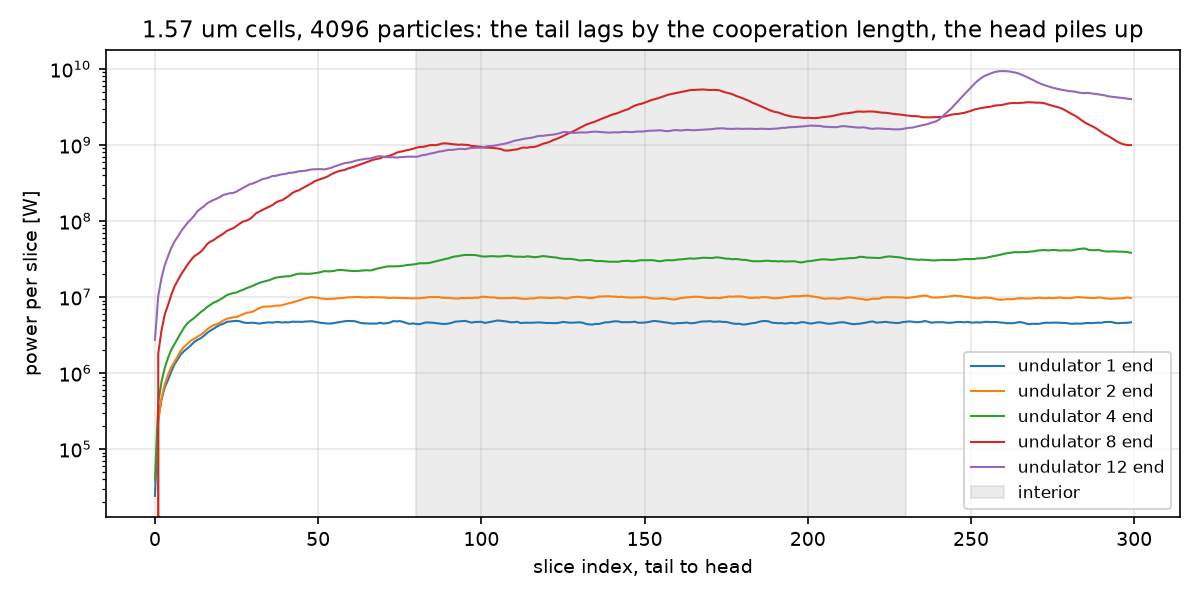
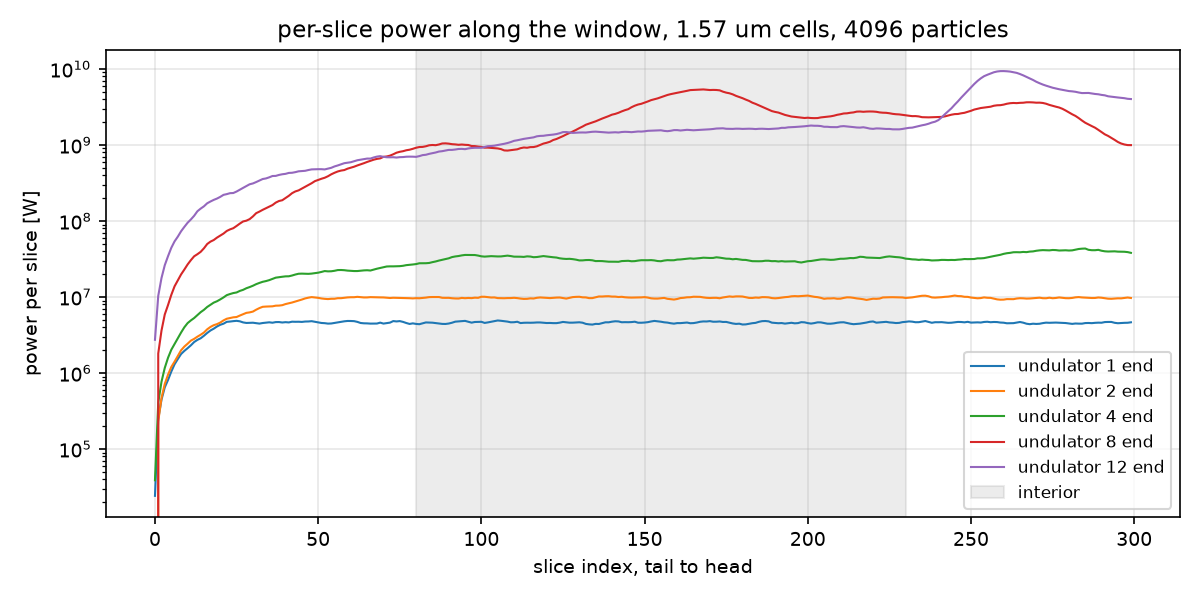
lucifer: startup-noise page rewritten in a plain register
The page defines its terms where it uses them and drops the shorthand the
first version leaned on. A run with the field started at zero is an unseeded
run, an input file is an input file, the power outside the mode is the
wide-angle emission, and the particle count is named as such. The section
titles name their subjects: the model, the method, emission outside and inside
the mode, short and long bunches, the comparison with Genesis4, the
recommendations and the possible remedies. The introduction no longer assumes
the reader knows the migration example, and the reproduction paragraph states
what the script did rather than announcing where the numbers come from. The
two figure files whose names carried the shorthand are renamed, and the window
profile figure's title is a description of its axes. The changelog entry, the
three example README sentences and the index row use the same vocabulary. No
number moved.

The eleven tier digits are byte-identical on both builds, the regression
suite reports 52 passed and 3 skipped, the wavefront validation passes and
every example exit line is identical.

Changed region(s): [[0.1233, 0.03, 0.9558, 0.09]]

diff --git a/lucifer/tests/scripts/startup_noise.py b/lucifer/tests/scripts/startup_noise.py
@@ -536,7 +536,7 @@ def figures(results, out):
     for a in ax[1]:
         a.set_xlabel("z [m]")
     fig.tight_layout()
-    fig.savefig(out / "floor-and-gain.png", dpi=150)
+    fig.savefig(out / "power-outside-and-inside-the-mode.png", dpi=150)
     plt.close(fig)
 
     # 2. The floor against the cell size, the gain against the load, at the first dump.
@@ -560,7 +560,7 @@ def figures(results, out):
     ax[1].set_ylabel("power at z = 18.2 m [W]")
     ax[1].legend(fontsize=8)
     fig.tight_layout()
-    fig.savefig(out / "floor-vs-cell-gain-vs-load.png", dpi=150)
+    fig.savefig(out / "wide-angle-vs-cell-size-and-particle-count.png", dpi=150)
     plt.close(fig)
 
     # 3. Beamlets against particles.
@@ -606,7 +606,7 @@ def figures(results, out):
     fig.savefig(out / "line-and-doubled.png", dpi=150)
     plt.close(fig)
 
-    # 5. The window profile: per-slice power against the slice index at four undulator ends.
+    # 5. The window profile: per-slice power against the slice index at five undulator ends.
     r = fl["floor_g256_n4096"]
     fig, ax = plt.subplots(figsize=(8, 4))
     for k, prof in r["profile"].items():
@@ -614,7 +614,7 @@ def figures(results, out):
     ax.axvspan(INTERIOR.start, INTERIOR.stop, color="gray", alpha=0.15, label="interior")
     ax.set_xlabel("slice index, tail to head")
     ax.set_ylabel("power per slice [W]")
-    ax.set_title("1.57 um cells, 4096 particles: the tail lags by the cooperation length, the head piles up")
+    ax.set_title("per-slice power along the window, 1.57 um cells, 4096 particles")
     ax.legend(fontsize=8)
     fig.tight_layout()
     fig.savefig(out / "window-profile.png", dpi=150)

diff --git a/lucifer/doc/startup-noise.md b/lucifer/doc/startup-noise.md
@@ -1,11 +1,11 @@
 ---
-title: "SASE startup against the grid and the load"
-short_title: Startup noise
+title: "Grid and particle-count dependence of SASE power"
+short_title: SASE convergence
 ---
 
-A run started dark reports a field power that depends on the transverse cell size and on the number of macroparticles per slice. On the migration example deck the exit power runs from 0.25 GW at 6.25 um cells to 37 GW at 0.78 um at 1024 particles per slice, and four times the particles cuts it by about six at either grid. Genesis4 does the same on the same decks, and Lucifer started from Genesis4's own dumps lands on it at 2e-6 at every grid, so the dependence belongs to the method the two codes share. This page measures where the power comes from, what converges and what does not, and how to choose the grid and the particle count for a SASE run.
+Self-amplified spontaneous emission (SASE) is simulated by starting the radiation field at zero and letting the shot noise of the electron beam seed the instability. This page calls such a run unseeded. The field power an unseeded run reports depends on the transverse cell size of the field grid and on the number of macroparticles per slice. On the input of the example in `examples/migration`, the exit power is 0.25 GW with 6.25 um cells and 37 GW with 0.78 um cells at 1024 macroparticles per slice, and four times the particles reduces it by about a factor of six at either cell size. Genesis4 shows the same dependence on the same inputs, and Lucifer started from Genesis4's own particle and field dumps reproduces it to 2e-6 at every grid, so the dependence belongs to the method the two codes share. This page identifies the source of the power, states what converges and what does not, and gives the grid, window and particle count a SASE run needs.
 
-Every number here is produced by `lucifer/tests/scripts/startup_noise.py`, which also draws the figures and writes `doc/generated/startup-noise/startup-noise.json`. It runs on demand and never in the benchmark harness:
+The analysis was carried out with `lucifer/tests/scripts/startup_noise.py`, which runs the simulations, draws the figures and writes every number quoted here to `doc/generated/startup-noise/startup-noise.json`. The script runs on demand and is not part of the benchmark harness:
 
 ```
 python3 lucifer/tests/scripts/startup_noise.py --exe production/bin/lucifer --genesis <genesis4> \
@@ -13,29 +13,29 @@ python3 lucifer/tests/scripts/startup_noise.py --exe production/bin/lucifer --ge
         --workdir <dir> --out lucifer/doc/generated/startup-noise
 ```
 
-## What the codes model
+## The model
 
-The quiet start loads each beamlet's bunching at the physical shot-noise level, harmonic by harmonic ([](fel-physics.md#sec-noise)). Every beamlet is one transverse point on the deposit grid. The paraxial field solver carries every transverse wavenumber up to the grid's Nyquist, and the source has no angular dependence, so a point beamlet radiates its noise at the resonant wavelength into every angle the grid holds. A real undulator emits at the resonant wavelength only inside the central cone, $\theta_{con} = \sqrt{1+K^2}/(\gamma\sqrt{N_w})$, 7 urad for one segment of this line, and emission at larger angles is red-shifted out of the FEL bandwidth. Neither code applies that cutoff. Spontaneous emission enters the field in no other way: `radiation_fluctuations` acts on the beam's energy and never on the field.
+The particle loader imposes shot noise on each beamlet's bunching at the physical level, harmonic by harmonic, following Fawley's algorithm ([](fel-physics.md#sec-noise)). Each beamlet occupies a single transverse point on the deposition grid. The paraxial field solver carries every transverse wavenumber up to the Nyquist wavenumber of the grid, and the source term has no angular dependence, so a point beamlet radiates its noise at the resonant wavelength into every angle the grid can represent. A real undulator emits at the resonant wavelength only within the central cone of half angle $\theta_{con} = \sqrt{1+K^2}/(\gamma\sqrt{N_w})$, which is 7 urad for one segment of the line studied here. Emission at larger angles is red-shifted out of the FEL bandwidth. Neither code applies that cutoff. Spontaneous emission enters the field in no other way. The switch `radiation_fluctuations` acts on the particle energies and never on the field.
 
-Once the beam bunches, each beamlet radiates coherently with its own bunching, into the same wide angles. A real beam of $N$ electrons in $N_b$ beamlets radiates coherently only inside the mode, and the wide-angle part of a bunched macroparticle beam scales as the beamlet charge squared times the beamlet count, which is $1/N_b$ of the coherent power. That part is an artifact of the load. The theory of SASE startup is reviewed in [](references.md): Ming Xie's fit for the gain length, and Saldin, Schneidmiller and Yurkov's effective shot-noise power and saturation estimates.
+Once the beam is bunched, each beamlet radiates coherently with its own bunching factor, again into every angle the grid can represent. A real beam of $N$ electrons radiates coherently only within the mode of the FEL. The wide-angle emission of a bunched beam of $N_b$ beamlets scales as the square of the beamlet charge times the beamlet count, which is $1/N_b$ of the coherent power. This part of the power is an artifact of the macroparticle representation. The theory used for comparison is Ming Xie's fitting formula for the gain length and the effective shot-noise power and saturation estimates of Saldin, Schneidmiller and Yurkov ([](references.md)).
 
-## The measurement
+## Method
 
-The deck is the examples' Aramis line, 3 kA, 5.8 GeV, 1 A, with a window of 300 slices at a spacing of twelve wavelengths, longer than the 320 nm the whole line slips, so the interior of the window is a long bunch. The tail sixty slices lag by the cooperation length and the head thirty collect the field that slips forward, so every power on this page is the mean over the interior slices 80 to 230, per slice.
+The lattice is the Aramis line of the examples, with a peak current of 3 kA, an energy of 5.8 GeV and a radiation wavelength of 1 A. The time window holds 300 slices at a spacing of twelve wavelengths. It is longer than the 320 nm of slippage accumulated over the line, so the interior of the window behaves as a long bunch. The sixty slices nearest the tail lag by the cooperation length, and the thirty slices nearest the head collect the field that slips forward out of the interior. Every power quoted on this page is therefore the mean over slices 80 to 230 of the per-slice power.
 
 ![the per-slice power against the slice index at five undulator ends](generated/startup-noise/window-profile.png)
 
-The field is dumped at the ends of undulators 1, 2, 4, 8 and 12, at z of 4.0, 8.7, 18.2, 37.2 and 56.2 m. Each dump's far field is its FFT, and the power inside an angular radius of 3 urad is separated from the power outside it. The mode's diffraction angle $\lambda/(2\pi\sigma_x)$ is 0.74 urad, so the cut holds the mode with margin, and the split at saturation is the same for cuts of 2 and 5 urad. Early in the line the far field is flat in angle, so a cut of radius $\theta$ takes a share of the floor in proportion to $\theta^2$, and the coherent part is identifiable once it rises above that share, from about z = 10 m.
+The field is written to file at the ends of undulators 1, 2, 4, 8 and 12, at z of 4.0, 8.7, 18.2, 37.2 and 56.2 m. The far field of each record is its two-dimensional Fourier transform, and the power within an angular radius of 3 urad is separated from the power outside it. The diffraction angle of the mode, $\lambda/(2\pi\sigma_x)$, is 0.74 urad, so the cut contains the mode with margin. At saturation the split is the same for cuts of 2 and 5 urad. Early in the line the far field is flat in angle, so a cut of radius $\theta$ contains a share of the wide-angle emission proportional to $\theta^2$, and the coherent part becomes identifiable once it rises above that share, from about z = 10 m.
 
-The runs are on the device at cells of 6.35, 3.15, 1.57 and 0.78 um (grids 64 to 512 over a half width of 2e-4 m) and at 1024, 4096, 16384 and 65536 particles per slice. One CPU run at 6.35 um and 1024 particles differs from the device run by 1.5e-3 on the interior power and 1.9e-3 on the power inside the cut, the device's usual band ([](validation.md#val-device)).
+The runs use the Metal backend at cell sizes of 6.35, 3.15, 1.57 and 0.78 um, which are grids of 64, 128, 256 and 512 points over a half width of 2e-4 m, and at 1024, 4096, 16384 and 65536 macroparticles per slice. One CPU run at 6.35 um and 1024 particles differs from the corresponding device run by 1.5e-3 in the interior power and by 1.9e-3 in the power within the cut, which is the device's usual level ([](validation.md#val-device)).
 
-The theory for this deck, from the script: $\rho$ = 5.1e-4, $\sigma_x$ = 21 um, the 1D gain length 1.34 m, Ming Xie's 3D power gain length 1.79 m of undulator, the effective shot-noise power 1.9 kW per slice, $N_c$ = 1.5e6 electrons per coherence volume, a saturation length of 30.5 m and a saturated power of 0.5 GW by Saldin, Schneidmiller and Yurkov, and 8.1 GW by Ming Xie's estimate. The seeded steady-state example on the same line grows with an e-folding of 2.25 m along the line, which is 1.9 m of undulator once the drifts are counted, 6 percent from the fit.
+The script computes the following quantities for this configuration. The Pierce parameter is $\rho$ = 5.1e-4 and the rms beam size $\sigma_x$ = 21 um. The one-dimensional gain length is 1.34 m and Ming Xie's three-dimensional power gain length is 1.79 m of undulator. The effective shot-noise power is 1.9 kW per slice, the number of electrons per coherence volume $N_c$ = 1.5e6, the saturation length 30.5 m, and the saturated power 0.5 GW by the estimate of Saldin, Schneidmiller and Yurkov and 8.1 GW by Ming Xie's. The seeded steady-state example on the same line has a power e-folding length of 2.25 m along the line, which is 1.9 m of undulator once the drift spaces are excluded, within 6 percent of the fit.
 
-## The floor
+## Emission outside the mode
 
-![power outside and inside 3 urad against z, for four cell sizes and four loads](generated/startup-noise/floor-and-gain.png)
+![power outside and inside 3 urad against z, for four cell sizes and four particle counts](generated/startup-noise/power-outside-and-inside-the-mode.png)
 
-The power outside the cut at the end of the first segment does not move with the load and grows as the cells shrink, between $1/dx$ and $1/dx^2$:
+At the end of the first segment the power outside the cut is independent of the particle count and increases as the cells shrink, between $1/dx$ and $1/dx^2$:
 
 | cell size | 1024 particles | 4096 | 16384 | 65536 |
 |---|---|---|---|---|
@@ -44,55 +44,57 @@ The power outside the cut at the end of the first segment does not move with the
 | 1.57 um | 4.7e6 | 4.5e6 | 4.3e6 | 3.5e6 |
 | 0.78 um | 9.9e6 | 9.2e6 | 8.7e6 | 7.1e6 |
 
-The power inside the cut at the same point is 0.9e5 to 1.3e5 W per slice for every grid and every load. The physical spontaneous power of the beam in the central cone of one segment, Saldin, Schneidmiller and Yurkov's eq. (1), is 0.71 MW, and the share of it inside 3 urad is 1.3e5 W. The loaded noise radiates the right power where the real beam radiates. What it adds is the emission outside the cone.
+At the same point the power within the cut is 0.9e5 to 1.3e5 W per slice for every grid and every particle count. The spontaneous power of the beam within the central cone of one segment, eq. (1) of Saldin, Schneidmiller and Yurkov, is 0.71 MW, of which the share within 3 urad is 1.3e5 W. The loaded noise therefore radiates the physical power at the angles where a real beam radiates. What the model adds is the emission outside the cone.
 
-![the floor against the cell size at z = 3.99 m, and the inside and outside power against the load at z = 18.2 m](generated/startup-noise/floor-vs-cell-gain-vs-load.png)
+![the wide-angle power against the cell size at z = 3.99 m, and the inside and outside power against the particle count at z = 18.2 m](generated/startup-noise/wide-angle-vs-cell-size-and-particle-count.png)
 
-Past the first segments the outside power grows with the bunching, and now it depends on the load. At 1.57 um and z = 56 m it is 4.2e9, 9.6e8, 2.6e8 and 9.6e7 W per slice for 128, 512, 2048 and 8192 beamlets. The beamlet experiment separates the two counts:
+Beyond the first segments the power outside the cut grows with the bunching, and it then depends on the particle count. At 1.57 um and z = 56 m it is 4.2e9, 9.6e8, 2.6e8 and 9.6e7 W per slice for 128, 512, 2048 and 8192 beamlets. Varying the beamlet size at a fixed particle count, and the particle count at a fixed beamlet count, separates the two:
 
-![inside and outside power against z with the beamlet size varied at fixed particles, and the particle count varied at fixed beamlets](generated/startup-noise/beamlets-vs-particles.png)
+![inside and outside power against z with the beamlet size varied at fixed particle count, and the particle count varied at fixed beamlet count](generated/startup-noise/beamlets-vs-particles.png)
 
-| run | beamlets | outside 3 urad at z = 37 m | at z = 56 m |
+| particles per slice, beamlet size | beamlets | outside 3 urad at z = 37 m | at z = 56 m |
 |---|---|---|---|
-| 4096 particles, beamlet size 4 | 1024 | 2.0e8 W | 5.2e8 |
-| 4096 particles, beamlet size 8 | 512 | 4.1e8 | 9.6e8 |
-| 4096 particles, beamlet size 16 | 256 | 1.0e9 | 1.9e9 |
-| 2048 particles, beamlet size 4 | 512 | 4.2e8 | 1.1e9 |
-| 8192 particles, beamlet size 16 | 512 | 4.5e8 | 8.9e8 |
+| 4096, 4 | 1024 | 2.0e8 W | 5.2e8 |
+| 4096, 8 | 512 | 4.1e8 | 9.6e8 |
+| 4096, 16 | 256 | 1.0e9 | 1.9e9 |
+| 2048, 4 | 512 | 4.2e8 | 1.1e9 |
+| 8192, 16 | 512 | 4.5e8 | 8.9e8 |
 
-The outside power is set by the beamlet count alone, inversely, and the particle count at a fixed beamlet count does not enter. That is the coherent emission of each beamlet with itself.
+The power outside the cut is inversely proportional to the beamlet count and independent of the particle count at a fixed beamlet count. This is the coherent emission of each beamlet with itself.
 
-## The gain
+## Emission inside the mode
 
-The power inside the cut is the same curve for every grid and every load, within the SASE fluctuation of the interior mean, which is about 25 percent for the 150 slices and the 10-slice coherence length here. At z = 37.2 m it is 1.8e9 to 3.9e9 W per slice in fifteen of the sixteen runs, and the saturation point of the doubled line falls at 28 to 33 m for every run, beside the 30.5 m estimate. The saturated power sits between the two estimates, 0.5 and 8.1 GW. The interior bunching at 37 m is 0.20 to 0.30 in the same fifteen runs.
+The power within the cut follows the same curve for every grid and every particle count, within the statistical fluctuation of the interior mean, which is about 25 percent for 150 slices and a coherence length of about 10 slices. At z = 37.2 m it is 1.8e9 to 3.9e9 W per slice in fifteen of the sixteen runs. The saturation point of the doubled line falls between 28 and 33 m for every run, against the estimate of 30.5 m. The saturated power lies between the two estimates of 0.5 and 8.1 GW. The interior bunching factor at 37 m is 0.20 to 0.30 in the same fifteen runs.
 
-Two departures are measured. In the exponential regime the inside power rises with fewer beamlets, 3.5e6, 5.3e6 and 9.8e6 W at z = 18.2 m for 1024, 512 and 256 beamlets at 4096 particles, and 1.1e7 against 6.9e6 W at 1.57 um for 128 against 8192 beamlets. The beamlet's own field acts back on it, and the effect is a factor of about two in the exponential regime at the examples' load. The sixteenth run, 0.78 um cells with 1024 particles, is the one where the wide-angle emission reaches 6.8e9 W per slice at 37 m, above the coherent saturation. It drains the beam: the bunching there is 0.08 and the inside power 4.9e8 W, a fifth of the others.
+Two departures from convergence are measured. In the exponential regime the power within the cut rises as the beamlet count falls: 3.5e6, 5.3e6 and 9.8e6 W at z = 18.2 m for 1024, 512 and 256 beamlets at 4096 particles, and 1.1e7 against 6.9e6 W at 1.57 um for 128 against 8192 beamlets. The field of a beamlet acts back on the beamlet itself, and the effect is a factor of about two in the exponential regime at the particle count the examples use. The sixteenth run, with 0.78 um cells and 1024 particles, is the one in which the wide-angle emission reaches 6.8e9 W per slice at 37 m, above the coherent saturated power. That emission is drawn from the beam: the bunching factor there is 0.08 and the power within the cut 4.9e8 W, a fifth of the other runs.
 
-## The line and the line twice
+## Short and long bunches
 
 ![the examples' window through the line, and the long window through the line twice](generated/startup-noise/line-and-doubled.png)
 
-The examples run a window of 96 slices at three wavelengths, a 29 nm bunch, against a cooperation length $\lambda/(4\pi\rho)$ of 16 nm and 320 nm of slippage over the line. The field leaves such a bunch within a segment and a half, so its window power is the emission of the bunched beam into the field that passes, and most of that emission is the wide-angle part. The window power at the exit:
+The SASE examples use a window of 96 slices at a spacing of three wavelengths, a bunch 29 nm long. The cooperation length $\lambda/(4\pi\rho)$ is 16 nm, and the slippage over the line is 320 nm. The field leaves such a bunch within a segment and a half, so the window power is the emission of the bunched beam into the field passing through it, and most of that emission is the wide-angle part. The window power at the exit of the line is:
 
 | window of 96 slices | 1024 particles | 65536 particles |
 |---|---|---|
 | 3.15 um cells | 1.18 GW | 0.047 GW |
 | 1.57 um cells | 7.3 GW | 0.17 GW |
 
-The two 65536 runs still differ by 3.6, the floor's own ratio between the two cell sizes, so the window power of this bunch is the wide-angle emission at every load measured. The examples' recorded powers, 3.0 GW for `examples/sase` at 255 points and 2048 particles and 3.13 GW for `examples/migration` at 151 points and 1024, are numbers of this kind. Their ratios, migration on against off, and wake on against off, are measured at one grid and one load and stand as ratios.
+The two runs with 65536 particles still differ by a factor of 3.6, which is the ratio of the wide-angle emission between the two cell sizes. The window power of this bunch is therefore the wide-angle emission at every particle count measured. The powers recorded in the example descriptions, 3.0 GW for `examples/sase` at 255 grid points and 2048 particles and 3.13 GW for `examples/migration` at 151 points and 1024 particles, are of this kind. The ratios those examples measure, migration enabled against disabled and wake enabled against disabled, are taken at one grid and one particle count and remain valid as ratios.
 
-The long window through the line twice, 600 slices, gives the long-bunch answer. At 65536 particles the interior power at 3.15 and 1.57 um agrees: a peak of 2.24e9 and 2.28e9 W per slice at z = 37 m, and 2.4e8 and 3.1e8 W at 114 m as the saturated field decoheres. At 1024 particles the same runs saturate at the same z but hold 1.3e9 and 2.8e9 W at 114 m, which is the wide-angle emission piling up. Saturation forgives the startup and the saturation point, and it does not forgive the load in what the power diagnostic reports afterwards.
+A window of 600 slices through a line of twice the length gives the long-bunch result. With 65536 particles the interior power at 3.15 and 1.57 um agrees: a peak of 2.24e9 and 2.28e9 W per slice at z = 37 m, falling to 2.4e8 and 3.1e8 W at 114 m as the saturated field loses coherence. With 1024 particles the same runs saturate at the same position but hold 1.3e9 and 2.8e9 W at 114 m, which is the accumulated wide-angle emission. Saturation is insensitive to the startup level and to the saturation position. It does not remove the particle-count dependence of the total power reported after saturation.
 
-## Genesis4
+## Comparison with Genesis4
 
-On the harness's SASE tier deck, a 32-slice window of 9.6 nm at 2048 particles, Genesis4 4.6.15 with its FFT solver reports an exit window power of 2.26e7, 1.17e8 and 8.16e8 W at 151, 255 and 511 points, and with its ADI solver 2.26e7, 1.20e8 and 5.48e8 W. Lucifer started from Genesis4's dumps at each grid lands on its exit power at 1.9e-6, 1.9e-6 and 1.9e-6, with a worst record of 2.1e-6, the `tdsase` tier's level. The two codes discretize the transverse plane and the load identically, so the tiers cannot see the dependence, and that deck's bunch is 0.6 cooperation lengths long.
+On the SASE input of the benchmark harness, a window of 32 slices spanning 9.6 nm with 2048 particles, Genesis4 4.6.15 reports an exit window power of 2.26e7, 1.17e8 and 8.16e8 W at 151, 255 and 511 grid points with its FFT solver, and 2.26e7, 1.20e8 and 5.48e8 W with its alternating-direction implicit solver. Lucifer started from Genesis4's dumps at each grid agrees with its exit power to 1.9e-6 at all three, with a worst relative difference over all records of 2.1e-6, which is the level of the `tdsase` tier. The two codes discretize the transverse plane and the particle distribution identically, so the comparison tiers cannot detect this dependence. That bunch is 0.6 cooperation lengths long.
 
-## Choosing the grid and the load
+## Recommendations
 
-- Judge a dark start by the power inside the mode, or by the bunching, and never by the total field power alone. A field dump's far field splits the two, as the script does. A cheaper test is to double the particle count: a power that halves is wide-angle emission.
-- For a long-bunch SASE result the window must be several cooperation lengths long, 16 nm here, and the slices within a few cooperation lengths of the tail are not representative. A window shorter than that is a short-bunch problem, and its power is dominated by the wide-angle emission at any load this page measured.
-- Cells near 3 um resolve a 21 um beam. Finer cells raise the floor and buy nothing in the coherent power.
-- The wide-angle emission at saturation scales as the bunching squared over the beamlet count, and between $1/dx$ and $1/dx^2$. On this line it falls under the coherent saturated power at 2048 beamlets for 1.57 um cells and at 512 beamlets for 3.15 um, which is 16384 and 4096 particles at a beamlet size of 8.
-- The `check_sase_startup` check and the `tdsase` tier compare the two codes at one grid and one load. They hold the loading level and the transcription, and they say nothing about convergence in either.
+- Judge an unseeded run by the power within the mode or by the bunching factor, and not by the total field power alone. The far field of a field dump separates the two, as the script does. A simpler test is to double the particle count: a power that halves is wide-angle emission.
+- A long-bunch SASE result requires a window several cooperation lengths long, 16 nm for this configuration, and the slices within a few cooperation lengths of the tail are not representative. A shorter window is a short-bunch problem, and its total power was dominated by wide-angle emission at every particle count measured here.
+- Cells of about 3 um resolve a 21 um beam. Finer cells increase the wide-angle emission without changing the coherent power.
+- The wide-angle emission at saturation scales as the square of the bunching factor divided by the beamlet count, and between $1/dx$ and $1/dx^2$ in the cell size. On this line it falls below the coherent saturated power at 2048 beamlets for 1.57 um cells and at 512 beamlets for 3.15 um cells, which is 16384 and 4096 particles per slice at a beamlet size of 8.
+- The `check_sase_startup` check and the `tdsase` tier compare the two codes at one grid and one particle count. They verify the noise level and the transcription, and they say nothing about convergence in either quantity.
 
-The two ways to remove the artifact are measurements not yet made: a transverse deposit kernel wider than a cell, which would suppress the wavenumbers a point beamlet radiates into, and an angular filter on the source at the central cone. Either departs from Genesis4 on measurement.
+## Possible remedies
+
+Two changes would remove the artifact and have not been measured: a transverse deposition kernel wider than one cell, which would suppress the wavenumbers a point beamlet radiates into, and an angular filter on the source term at the central cone. Either would be a departure from Genesis4 and would need its own measurement.

diff --git a/lucifer/doc/changelog.md b/lucifer/doc/changelog.md
@@ -9,24 +9,24 @@ Development history of the FEL tracker on the `lucifer-dev` branch, newest first
 This is the branch's own record. Bmad's `changelog.md` carries what a merge changes,
 and it is written at the merge.
 
-- 2026-09-05 Added: doc/startup-noise.md, the SASE startup measured against the transverse cell
-  size and the macroparticle load, with tests/scripts/startup_noise.py producing every number and
-  figure on demand. A dark start's field power has two parts. The power inside the mode, taken from
+- 2026-09-05 Added: doc/startup-noise.md, the dependence of SASE power on the transverse cell
+  size and the macroparticle count, with tests/scripts/startup_noise.py producing every number and
+  figure on demand. The field power of an unseeded run has two parts. The power inside the mode, taken from
   the far field of dumps at five undulator ends inside 3 urad, is the same for cells of 6.35 to
   0.78 um and loads of 1024 to 65536 particles per slice within the SASE fluctuation, 1.8e9 to
   3.9e9 W per interior slice at z = 37 m, saturating at 28 to 33 m beside Saldin, Schneidmiller and
   Yurkov's 30.5 m, and at the end of the first segment it equals the beam's physical spontaneous
   power inside that cone, 1.3e5 W per slice. The power outside the mode is the point beamlets'
-  own emission: load-independent at first and between 1/dx and 1/dx^2 in the cell size, then
+  own emission: independent of the particle count at first and between 1/dx and 1/dx^2 in the cell size, then
   growing with the bunching as one over the beamlet count and independent of the particle count
   at a fixed beamlet count. At 1.57 um cells and 1024 particles it is 4.2e9 W per slice at the
   exit against 8e8 W inside the mode. The examples' 96-slice window is 1.9 cooperation lengths
-  long and its power is that emission at every load measured, 7.3 GW at 1024 particles and
+  long and its power is that emission at every particle count measured, 7.3 GW at 1024 particles and
   0.17 GW at 65536 at 1.57 um, so the SASE examples' recorded powers are numbers of that kind
-  and their ratios stand. Genesis4 4.6.15 on the SASE tier deck reports 2.26e7, 1.17e8 and
+  and their ratios stand. Genesis4 4.6.15 on the SASE tier input reports 2.26e7, 1.17e8 and
   8.16e8 W at 151, 255 and 511 points, and Lucifer from its dumps lands on it at 1.9e-6 at each.
   The page states what the codes model, what converged, and how to choose the grid, the window
-  and the load. The index gains a row, validation.md's SASE tier paragraph a sentence, and the
+  and the particle count. The index gains a row, validation.md's SASE tier paragraph a sentence, and the
   sase, migration and sase_wake examples one sentence each. No setting or recorded number moved.
 
 - 2026-09-04 Added: slice migration runs with the device. The pass is fel_migrate_slices

diff --git a/lucifer/examples/sase_wake/README.md b/lucifer/examples/sase_wake/README.md
@@ -22,9 +22,9 @@ least because the wake is causal and the head has little charge ahead of it. The
 energy drops 8.29 m_e c^2, about 4.24 MeV, over the 57 m line, and the per-slice drop
 runs from 0.25 to 13.56 m_e c^2 across the window. That is clearly visible in the
 energy panel against the 1 m_e c^2 initial spread. The SASE still reaches 2.94 GW,
-against 3.02 GW for the same run with no wake. Both powers are at this deck's grid and
-particle count, and a dark start's power depends on both
-([startup noise](../../doc/startup-noise.md)).
+against 3.02 GW for the same run with no wake. Both powers are those of this input's grid
+and particle count. The power of an unseeded run depends on both
+([SASE convergence](../../doc/startup-noise.md)).
 
 The same resistive-wall kernel applied through Bmad's own wake machinery instead of
 the transcribed model is `../bmad_wake`, which carries both runs and their agreement.

diff --git a/lucifer/examples/sase/README.md b/lucifer/examples/sase/README.md
@@ -20,9 +20,9 @@ The beam is a flat coasting bunch said in Bmad's own vocabulary:
 Measured on this input (`ran_seed` at its 12345 default): startup power settles near
 4 MW per slice after the first segment, the total reaches 3.0 GW at z = 57 m with a
 per-slice spread of 0.91, which is the SASE fluctuation, and the induced energy
-spread grows from 0.99 to 1.14 m_e c^2. These powers are at this deck's grid and
-particle count, and a dark start's power depends on both
-([startup noise](../../doc/startup-noise.md)).
+spread grows from 0.99 to 1.14 m_e c^2. These powers are those of this input's grid
+and particle count. The power of an unseeded run depends on both
+([SASE convergence](../../doc/startup-noise.md)).
 
 Two features of the plot are physics rather than artifacts. The total-power sawtooth
 is radiation slipping out of the head of a finite time window at each drift while

diff --git a/lucifer/examples/migration/README.md b/lucifer/examples/migration/README.md
@@ -29,9 +29,9 @@ Measured on this input:
 | exit power, `migrate = T` | 3.13 GW, exit bunching 0.051 |
 | exit power, `migrate = F` | 1.81 GW, exit bunching 0.035 |
 
-The exit powers are at this deck's grid and particle count, and a dark start's power
-depends on both ([startup noise](../../doc/startup-noise.md)). The ratio between the
-two rows is the measurement here.
+The exit powers are those of this input's grid and particle count. The power of an
+unseeded run depends on both ([SASE convergence](../../doc/startup-noise.md)). The ratio
+between the two rows is the measurement here.
 
 `migration.migration.txt` carries one row per event with the s position, the count,
 the charge dropped and the phasor deviation, and the totals at the end. The rows are

diff --git a/lucifer/doc/index.md b/lucifer/doc/index.md
@@ -54,7 +54,7 @@ Genesis4 maps, which the comparison tiers select through [](input-reference.md)'
 | know the physics and the conventions | [](fel-physics.md) |
 | know what is checked and at what level | [](validation.md) |
 | know where a run spends its time | [](performance.md) |
-| choose the grid and the particle count for a SASE run | [](startup-noise.md) |
+| choose the grid, the window and the particle count for a SASE run | [](startup-noise.md) |
 | run something and see a figure | [](generated/examples/examples.md) |
 | write or read the statistics format | [](BMAD-STATS-SPEC.md) |
 | see what changed | [](changelog.md) |
